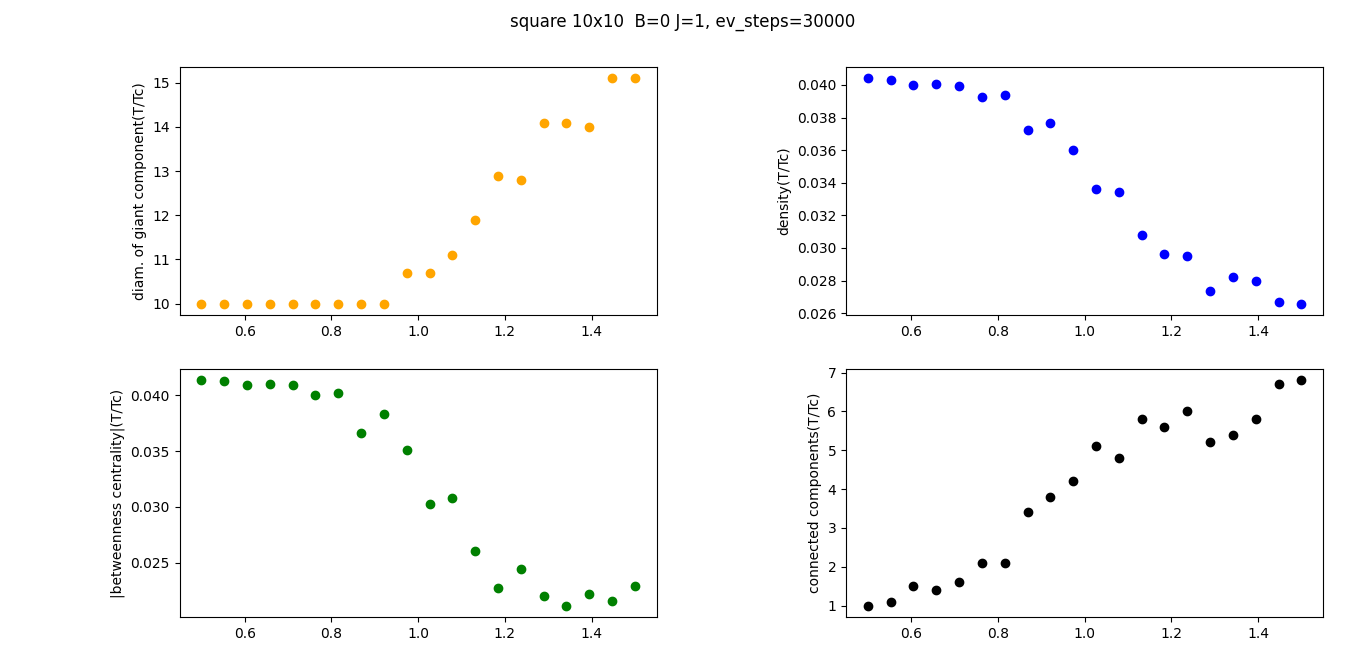
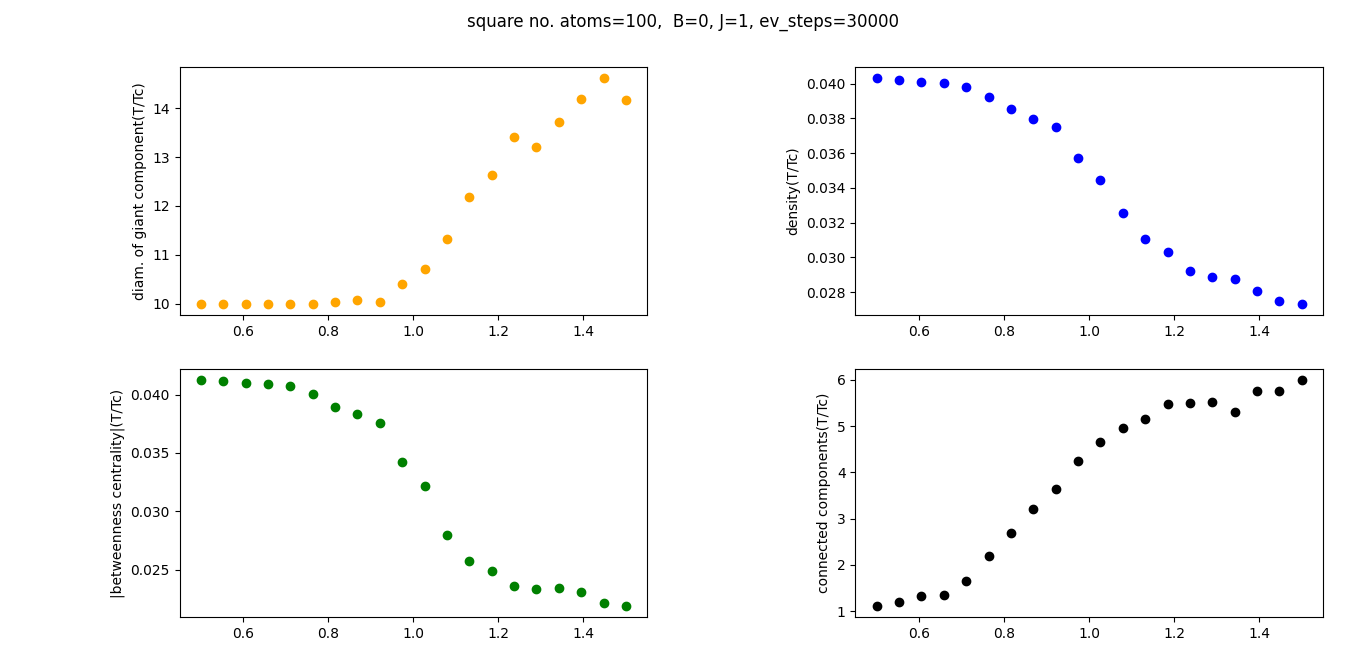
updated p sweep

diff --git a/sweep_on_p.py b/sweep_on_p.py
@@ -19,7 +19,7 @@ nbstrap = 1000
 lenth_p_sweep = np.arange(1/(N*M), 10/(N*M), 1/(M*N))
 print(lenth_p_sweep)
 
-T = np.linspace(0.5, 5, 20)
+T = np.linspace(0.5, 8, 30)
 ones = np.ones(len(T))
 beta = ones/(T)
 
@@ -172,6 +172,7 @@ def main():
     cv_array = []
     xi_array = []
     m_array = []
+    E_array = []
     for p in lenth_p_sweep:
         # create lattice
         G = lattice(M, N, p)
@@ -189,11 +190,10 @@ def main():
         # iterate steps and sweep trough beta
         E_beta, M_beta, cv_beta, xi_beta, n = step(A_dense, beta, n)
 
+        E_array.append(E_beta)
         cv_array.append(cv_beta)
         xi_array.append(xi_beta)
         m_array.append(M_beta)
-
-    print(xi_array)
 
     critical = []
     for a in range(len(lenth_p_sweep)):
@@ -202,17 +202,18 @@ def main():
         critical.append(critical_temp)
 
     print(critical)
-    
-    line = sp.stats.linregress(lenth_p_sweep, critical)
-    slope = line[0]
-    intercept = line[1]
+    np.savetxt("psweep_Tc.csv", critical, delimiter=",")
+    np.savetxt("psweep_p.csv", lenth_p_sweep, delimiter=",")
 
-    plt.scatter(lenth_p_sweep, critical, label='simulated')
-    plt.plot(lenth_p_sweep, slope*lenth_p_sweep+intercept, label='fit')
-    plt.title('Critical temperature')
+    #line = sp.stats.linregress(lenth_p_sweep, critical)
+    #slope = line[0]
+    #intercept = line[1]
+
+    plt.scatter(lenth_p_sweep, critical)
+    #plt.plot(lenth_p_sweep, slope*lenth_p_sweep+intercept, label='fit')
+    plt.title('ER Critical temperature')
     plt.xlabel('p')
     plt.ylabel('Tc')
-    plt.legend()
     plt.show()
 
     # for normalization purposes
@@ -223,42 +224,99 @@ def main():
 
     #plot magnetisation for different p's
     fig = plt.figure()
-    ax1 = fig.add_subplot(111)
-    # ax2 = fig.add_subplot(2, 2, 2)
-    # ax3 = fig.add_subplot(2, 2, 3)
-    # ax4 = fig.add_subplot(2, 2, 4)
+    ax1 = fig.add_subplot(2, 1, 1)
+    ax2 = fig.add_subplot(2, 1, 2)
+    
     ax1.plot(T, m_array[0]/n_normalize, color='orange', label='p={}/N*M'.format(round(lenth_p_sweep[0]*N*M)))
     ax1.plot(T, m_array[1]/n_normalize, color='blue', label='p={}/N*M'.format(round(lenth_p_sweep[1]*N*M)))
     ax1.plot(T, m_array[2]/n_normalize, color='green', label='p={}/N*M'.format(round(lenth_p_sweep[2]*N*M)))
     ax1.plot(T, m_array[3]/n_normalize, color='black', label='p={}/N*M'.format(round(lenth_p_sweep[3]*N*M)))
+    ax1.plot(T, m_array[4]/n_normalize, color='purple', label='p={}/N*M'.format(round(lenth_p_sweep[4]*N*M)))
+    ax1.plot(T, m_array[5]/n_normalize, color='yellow', label='p={}/N*M'.format(round(lenth_p_sweep[5]*N*M)))
     ax1.set_ylabel('$<\sqrt{|M^2|}>$')
     ax1.set_xlabel('T')
+
+    ax2.plot(T, E_array[0]/n_normalize, color='orange', label='p={}/N*M'.format(round(lenth_p_sweep[0]*N*M)))
+    ax2.plot(T, E_array[1]/n_normalize, color='blue', label='p={}/N*M'.format(round(lenth_p_sweep[1]*N*M)))
+    ax2.plot(T, E_array[2]/n_normalize, color='green', label='p={}/N*M'.format(round(lenth_p_sweep[2]*N*M)))
+    ax2.plot(T, E_array[3]/n_normalize, color='black', label='p={}/N*M'.format(round(lenth_p_sweep[3]*N*M)))
+    ax2.plot(T, E_array[4]/n_normalize, color='purple', label='p={}/N*M'.format(round(lenth_p_sweep[4]*N*M)))
+    ax2.plot(T, E_array[5]/n_normalize, color='yellow', label='p={}/N*M'.format(round(lenth_p_sweep[5]*N*M)))
+    ax2.set_ylabel('$E/node$')
+    ax2.set_xlabel('T')
+
     fig.tight_layout()
     plt.legend()
     plt.show()
 
     # plot Energy and magnetisation per site as a function of temperature
     fig = plt.figure()
-    ax1 = fig.add_subplot(2, 2, 1)
-    ax2 = fig.add_subplot(2, 2, 2)
-    ax3 = fig.add_subplot(2, 2, 3)
-    ax4 = fig.add_subplot(2, 2, 4)
+    ax1 = fig.add_subplot(2, 3, 1)
+    ax2 = fig.add_subplot(2, 3, 2)
+    ax3 = fig.add_subplot(2, 3, 3)
+    ax4 = fig.add_subplot(2, 3, 4)
+    ax5 = fig.add_subplot(2, 3, 5)
+    ax6 = fig.add_subplot(2, 3, 6)
     ax1.scatter(T, xi_array[0]/n_normalize, color='orange')
     ax1.set_ylabel('$\Xi$')
-    ax1.set_xlabel('T/Tc_square')
+    ax1.set_xlabel('T')
     ax1.set_title('{}/N*M'.format(round(lenth_p_sweep[0]*N*M), 2))
     ax2.scatter(T, xi_array[1]/n_normalize, color='blue')
     ax2.set_ylabel('$\Xi$')
-    ax2.set_xlabel('T/Tc_square')
+    ax2.set_xlabel('T')
     ax2.set_title('{}/N*M'.format(round(lenth_p_sweep[1]*N*M, 2)))
     ax3.scatter(T, xi_array[2]/n_normalize, color='green')
     ax3.set_ylabel('$\Xi$')
-    ax3.set_xlabel('T/Tc_square')
+    ax3.set_xlabel('T')
     ax3.set_title('{}/N*M'.format(round(lenth_p_sweep[2]*N*M, 2)))
     ax4.scatter(T, xi_array[3]/n_normalize, color='black')
     ax4.set_ylabel('$\Xi$')
-    ax4.set_xlabel('T/Tc_square')
+    ax4.set_xlabel('T')
     ax4.set_title('{}/N*M'.format(round(lenth_p_sweep[3]*N*M, 2)))
+    ax5.scatter(T, xi_array[4]/n_normalize, color='purple')
+    ax5.set_ylabel('$\Xi$')
+    ax5.set_xlabel('T')
+    ax5.set_title('{}/N*M'.format(round(lenth_p_sweep[4]*N*M, 2)))
+    ax6.scatter(T, xi_array[5]/n_normalize, color='yellow')
+    ax6.set_ylabel('$\Xi$')
+    ax6.set_xlabel('T')
+    ax6.set_title('{}/N*M'.format(round(lenth_p_sweep[5]*N*M, 2)))
+    fig.suptitle('ER no.atoms={}  B={} J={}, ev_steps={}, samples/T={}'.format(n, B, J, steps, repeat))
+    fig.tight_layout()
+    plt.show()
+
+
+    fig = plt.figure()
+    ax1 = fig.add_subplot(2, 3, 1)
+    ax2 = fig.add_subplot(2, 3, 2)
+    ax3 = fig.add_subplot(2, 3, 3)
+    ax4 = fig.add_subplot(2, 3, 4)
+    ax5 = fig.add_subplot(2, 3, 5)
+    ax6 = fig.add_subplot(2, 3, 6)
+    ax1.scatter(T, cv_array[0]/n_normalize, color='orange')
+    ax1.set_ylabel('$C_v$')
+    ax1.set_xlabel('T')
+    ax1.set_title('{}/N*M'.format(round(lenth_p_sweep[0]*N*M), 2))
+    ax2.scatter(T, cv_array[1]/n_normalize, color='blue')
+    ax2.set_ylabel('$C_v$')
+    ax2.set_xlabel('T')
+    ax2.set_title('{}/N*M'.format(round(lenth_p_sweep[1]*N*M, 2)))
+    ax3.scatter(T, cv_array[2]/n_normalize, color='green')
+    ax3.set_ylabel('$C_v$')
+    ax3.set_xlabel('T')
+    ax3.set_title('{}/N*M'.format(round(lenth_p_sweep[2]*N*M, 2)))
+    ax4.scatter(T, cv_array[3]/n_normalize, color='black')
+    ax4.set_ylabel('$C_v$')
+    ax4.set_xlabel('T')
+    ax4.set_title('{}/N*M'.format(round(lenth_p_sweep[3]*N*M, 2)))
+    ax5.scatter(T, cv_array[4]/n_normalize, color='purple')
+    ax5.set_ylabel('$C_v$')
+    ax5.set_xlabel('T')
+    ax5.set_title('{}/N*M'.format(round(lenth_p_sweep[4]*N*M, 2)))
+    ax6.scatter(T, cv_array[5]/n_normalize, color='yellow')
+    ax6.set_ylabel('$C_v$')
+    ax6.set_xlabel('T')
+    ax6.set_title('{}/N*M'.format(round(lenth_p_sweep[5]*N*M, 2)))
     fig.suptitle('ER no.atoms={}  B={} J={}, ev_steps={}, samples/T={}'.format(n, B, J, steps, repeat))
     fig.tight_layout()
     plt.show()

diff --git a/correlation_lenght_v3.py b/correlation_lenght_v3.py
@@ -6,13 +6,13 @@ from numba import jit
 
 time_start = time.perf_counter()
 
-lattice_type = 'ER'              #write square, triangular or hexagonal
-p = 0.03
+lattice_type = 'square'              #write square, triangular or hexagonal
+p = 0.04
 
 J = 1                             #spin coupling constant
 B = 0                                #external magnetic field
-M = 20                               #lattice size MxN
-N = 20
+M = 10                               #lattice size MxN
+N = 10
 steps = 30000                         #number of evolution steps per given temperature
 max_r = 10
 repeat = 1
@@ -30,7 +30,7 @@ elif lattice_type == "triangular":
     T = np.linspace(0.5*Tc_t, 1.5*Tc_t, 10) 
     Tc = Tc_t
 elif lattice_type == "ER":
-    T = np.linspace(4, 9, 10) 
+    T = np.linspace(1, 5, 10) 
     Tc = 1
 else: print("Errore!")
 
@@ -38,17 +38,13 @@ else: print("Errore!")
 def lattice(M, N):
     if lattice_type == 'hexagonal':
         lattice = nx.hexagonal_lattice_graph(M, N, periodic=True, with_positions=True, create_using=None)
-        return lattice, 3
     elif lattice_type == 'triangular':
         lattice = nx.triangular_lattice_graph(M, N, periodic=True, with_positions=True, create_using=None)
-        return lattice, 6
     elif lattice_type == 'square':
         lattice = nx.grid_2d_graph(M, N, periodic=True, create_using=None)
-        return lattice, 4
     elif lattice_type == 'ER':
         lattice = nx.erdos_renyi_graph(M*N, p, seed=None, directed=False)
-        return lattice, 0.5*(num(lattice)-1)*p          #true only for large number of edges
-    #return lattice
+    return lattice
 
 #count number of sites in lattice
 def num(G):
@@ -62,11 +58,23 @@ def distances(num, spl):
     for i in range(num):
         dictionary_per_node_i = spl[i][1]                   #returns an nxn matrix, element m,n is the distance between node m and node n
         for j in range(num):
-            lenghts[i, j] = dictionary_per_node_i[j]
+            if j in dictionary_per_node_i.keys():           #for ER graphs some atoms may be disconnected, they shoud not count
+                lenghts[i, j] = dictionary_per_node_i[j]
+            else:
+                lenghts[i, j] = max_r+100                   #set isolated atoms at a distance that will not be exlored (i.e. above max_r)
     return lenghts
 
+def neighbour_number(lenghts, num):                         #returns array max_r x num where element radius, n is the number of atoms at a distance radius from atom n
+    nn = np.zeros((max_r, num))
+    for radius in range(max_r):
+        for atom in range(num):
+            for neighbour in range(num):
+                if lenghts[atom, neighbour] == radius:
+                    nn[radius, atom] += 1
+    return nn
+
 @jit(nopython=True)
-def step(A_dense, beta, num, nn_number, lenghts, spinlist):
+def step(A_dense, beta, num, lenghts, spinlist, neighnum):
     
     corr_repeats = np.empty((repeat, max_r))
     corr_r = np.zeros(max_r)
@@ -98,18 +106,24 @@ def step(A_dense, beta, num, nn_number, lenghts, spinlist):
             l+=1
 
         r = []
+        corr=0
+        mean=0
         for radius in range(max_r):
-            corr=0
+            #corr=0
+            #mean=0
             for atom in range(num):
-                mean = 0
+                #mean = 0
                 for neighbour in range(num):
-                    if lenghts[atom, neighbour] == radius:
+                    if lenghts[atom, neighbour] <= radius:
                         corr += (spinlist[atom]*spinlist[neighbour])    #measures correlation for a given distance
-                        mean += spinlist[neighbour]                
+                        mean += spinlist[neighbour]
                 if radius == 0:
-                    corr2 = corr
-                else:    
-                    corr2 = corr/(nn_number*radius)-mean**2/(nn_number*radius)**2
+                    corr2 = corr                                        #only neighbour at distance zero is the atom itself
+                else:
+                    if neighnum[radius, atom] == 0:                     #avoid dividing by zero if there are no atoms at a certain distance, these are border effects
+                        corr2 = 0
+                    else:
+                        corr2 = corr/(neighnum[radius, atom])-mean**2/(neighnum[radius, atom])**2
             corr3 = corr2/num
             r.append(radius)                        
             corr_repeats[rep][radius] = abs(corr3)
@@ -125,7 +139,7 @@ def step(A_dense, beta, num, nn_number, lenghts, spinlist):
 def main():
 
     #create lattice
-    G, nn_number = lattice(M, N)
+    G = lattice(M, N)
     #convert node labels to integers
     G = nx.convert_node_labels_to_integers(G, first_label=0, ordering='default', label_attribute=None)
     #get number of nodes
@@ -139,19 +153,23 @@ def main():
 
     lenghts = distances(n, spl)
     
-    rand_spin = np.random.choice(np.array([1, -1]), n)   #create random spins for nodes
+    neigh_num = neighbour_number(lenghts, n)
+    #print(neigh_num)
+
+
+    rand_spin = np.random.choice(np.array([1, 1]), n)   #create random spins for nodes
     for j in range(len(T)):
 
         spinlist = np.copy(rand_spin)
 
         #iterate steps and sweep trough beta
-        corr_r, r = step(A_dense, 1/T[j], n, nn_number, lenghts, spinlist)
+        corr_r, r = step(A_dense, 1/T[j], n, lenghts, spinlist, neigh_num)
 
         plt.plot(r, corr_r, label=f'T={T[j]:.2f}')
         print(j)
     
     plt.xlabel('node distance r')
-    plt.ylabel('<$\sigma(i)\sigma(i+r)$>')
+    plt.ylabel('$<\sigma(i)\sigma(i+r)> - {<\sigma(i)>}^2$')
     plt.legend()
     plt.title('type:{}, J={}, B={}, ev_steps={}, no. atoms={}, p={}'.format(lattice_type, J, B, steps, M*N, p))
 

diff --git a/ising_network_clustering_sweep_v5.py b/ising_network_clustering_sweep_v5.py
@@ -7,22 +7,22 @@ from numba import jit
 
 time_start = time.perf_counter()
 
-lattice_type = 'square'            #write square, triangular or hexagonal
-M = 10
-N = 10
+lattice_type = 'hexagonal'            #write square, triangular or hexagonal
+M = 8
+N = 6
 J = 1
 B = 0
-steps = 15000
-repeat = 1
+steps = 30000
+repeat = 100
 
 Tc = (2*abs(J))/np.log(1+np.sqrt(2))        #Critical temperature
 Tc_h = 2/np.log(2 + np.sqrt(3))             #Critical temperature of hexagonal lattic  at J = 1
 Tc_t = 4 / np.log(3)                       #Critical temperature of triangular lattice at J = 1 
 
 if lattice_type == "square":
-    T = np.linspace(0.5*Tc, 2*Tc, 20) 
+    T = np.linspace(0.5*Tc, 1.5*Tc, 20) 
 elif lattice_type == "hexagonal":
-    T = np.linspace(0.5*Tc_h, 2*Tc_h, 20) 
+    T = np.linspace(0.5*Tc_h, 1.5*Tc_h, 20) 
     Tc = Tc_h
 elif lattice_type == "triangular":
     T = np.linspace(0.5*Tc_t, 1.5*Tc_t, 20) 

diff --git a/sweep_on_p_data.py b/sweep_on_p_data.py
@@ -1,0 +1,13 @@
+import numpy as np
+import matplotlib.pyplot as plt
+
+M=N=10
+Tc = [0.5, 1.4473684210526314, 2.394736842105263, 2.8684210526315788, 3.81578947368421, 4.526315789473684, 4.526315789473684]
+lenth_p_sweep = np.arange(1/(N*M), 7.5/(N*M), 1/(M*N))
+print(lenth_p_sweep)
+
+plt.scatter(lenth_p_sweep, Tc)
+plt.title('ER Critical temperature')
+plt.xlabel('p')
+plt.ylabel('Tc')
+plt.show()
